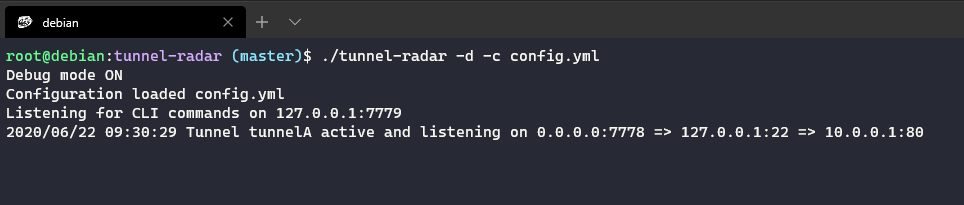
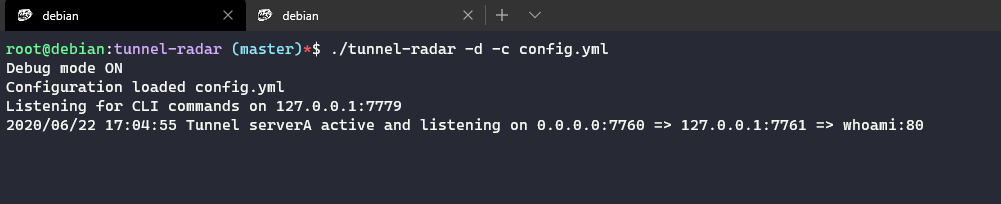
feat/docs: Adding documentation and features
* Adding CLI sample to documentation
* Changing logo
* Improving cli command handling
* Improving connection close on tunnel disable/enable

Changed region(s): [[0.0, 0.0, 0.9647, 0.6765], [0.4668, 0.0588, 0.5602, 0.0882]]

diff --git a/tunnel.go b/tunnel.go
@@ -22,12 +22,18 @@ type Tunnel struct {
 	Disabled     bool   `yaml:"disabled"`
 	Status       string
 	ClientConfig *ssh.ClientConfig
+	Listener     net.Listener
 }
 
 func (tunnel *Tunnel) Spawn() error {
 
+	if tunnel.Listener != nil {
+		tunnel.Listener.Close()
+	}
+
 	// Start accepting connections
 	listener, err := net.Listen("tcp", tunnel.Source)
+	tunnel.Listener = listener
 	if err != nil {
 		log.Printf("An error occurred while connecting to %s. Error: %s\r\n", tunnel.Alias, err)
 		return err
@@ -39,10 +45,9 @@ func (tunnel *Tunnel) Spawn() error {
 
 	log.Printf("Tunnel %s active and listening on %s => %s => %s\r\n", tunnel.Alias, tunnel.Source, tunnel.Remote, tunnel.Destination)
 	for tunnel.Disabled == false {
-
 		conn, err := listener.Accept()
 
-		if err != nil {
+		if err != nil && err != io.EOF {
 			log.Printf("An error occurred while accepting a connection on %s. Error: %s\r\n", tunnel.Alias, err)
 			return err
 		}

diff --git a/main.go b/main.go
@@ -11,8 +11,6 @@ func main() {
 	cli := flag.Bool("i", false, "Enter in CLI mode to execute commands on TunnelRadar")
 	cliHost := flag.String("ih", "127.0.0.1", "CLI host to connect to (default 127.0.0.1)")
 	cliPort := flag.Int("ip", 7779, "CLI Port to connect to (default 7779)")
-	cliServerHost := flag.String("ish", "127.0.0.1", "Host on which the CLI server will listen for commands (default 127.0.0.1)")
-	cliServerPort := flag.Int("isp", 7779, "Port on which the CLI server will listen for commands  (default 7779)")
 
 	configPath := flag.String("c", "/etc/tunnel-radar/config.yml", "Configuration file path")
 	debug := flag.Bool("d", false, "Enable debugging")
@@ -35,7 +33,7 @@ func main() {
 		}
 
 		// Start listening for commands
-		StartCliServer(*cliServerHost, *cliServerPort)
+		StartCliServer(tunnelRadarConfig.CliServerHost, tunnelRadarConfig.CliServerPort)
 
 	}
 }

diff --git a/config.go b/config.go
@@ -12,7 +12,9 @@ import (
 var tunnelRadarConfig TunnelRadarConfig
 
 type TunnelRadarConfig struct {
-	Tunnels map[string]*Tunnel `yaml:"tunnels"`
+	CliServerHost string             `yaml:"cliServerHost"`
+	CliServerPort int                `yaml:"cliServerPort"`
+	Tunnels       map[string]*Tunnel `yaml:"tunnels"`
 }
 
 // LoadConfig - Load the configuration from ./config.yml
@@ -33,9 +35,19 @@ func loadConfig(configPath string) {
 		os.Exit(1)
 	}
 
+	// Set the Host and Port for the CLI
+	if tunnelRadarConfig.CliServerHost == "" {
+		tunnelRadarConfig.CliServerHost = "127.0.0.1"
+	}
+
+	if tunnelRadarConfig.CliServerPort == 0 {
+		tunnelRadarConfig.CliServerPort = 7779
+	}
+
 	// Configure clients
 	for alias, tunnel := range tunnelRadarConfig.Tunnels {
 
+		// Set the Alias
 		tunnel.Alias = alias
 
 		// Set the Authentication method

diff --git a/cli.go b/cli.go
@@ -114,7 +114,7 @@ func getCommand(conn net.Conn) {
 				conn.Write([]byte(fmt.Sprintf("Missing alias of tunnel (i.e. enable tunnel1)%s", TUNNEL_RADAR_EOF)))
 			}
 			alias := cmd[1]
-			tunnelRadarConfig.Tunnels[alias].Enable()
+			(*tunnelRadarConfig.Tunnels[alias]).Enable()
 			conn.Write([]byte(alias + " has been enabled." + "\n" + TUNNEL_RADAR_EOF))
 
 		case "disable":
@@ -122,7 +122,7 @@ func getCommand(conn net.Conn) {
 				conn.Write([]byte(fmt.Sprintf("Missing alias of tunnel (i.e. disable tunnel1)%s", TUNNEL_RADAR_EOF)))
 			}
 			alias := cmd[1]
-			tunnelRadarConfig.Tunnels[alias].Disable()
+			(*tunnelRadarConfig.Tunnels[alias]).Disable()
 			conn.Write([]byte(alias + " has been disabled." + "\n" + TUNNEL_RADAR_EOF))
 
 		default:

diff --git a/README.md b/README.md
@@ -40,16 +40,19 @@ You should see a `tunnel-radar` binary inside the folder
 
 ```yaml
 tunnels:
-  tunnelA:
-    disabled: false
-    source: "0.0.0.0:7778"
-    remote: "127.0.0.1:22"
-    destination: "10.0.0.1:80"
+  serverA:
+    cliServerHost: "127.0.0.1"
+    cliServerPort: 7779
+    disabled: false # if true, this tunnel will have to be manually enabled
+    source: "0.0.0.0:6000"
+    remote: "127.0.0.1:6001"
+    destination: "whoami:80"
     auth:
       user: "root"
+      password: "root"
       # Either password or key are required
-      password: "password"
-      key: "/root/.ssh/id_rsa"
+      # key: "/root/.ssh/id_rsa"
+
 
 ```
 ## Usage 🏹
@@ -79,9 +82,23 @@ If so the service is ready to accept connections on the different enabled tunnel
 
 ## CLI Usage 💻
 
-TBD.
+In order to run the `cli` to manage the tunnels you can use the same binary with the flags specified above:
 
-## TODO :wrench:
+```bash
+$ ./tunnel-radar -d -i -ih 127.0.0.1 -ip 7779
+```
+
+The prompt of the CLI will show up and then you can start communicating with the service like:
+
+<div style="text-align:center"><img src="./doc/images/usage_2.png"></div>
+
+As of right now these are the available commands:
+
+* **list/ls**: Display the list of declared tunnels
+* **enable [alias]**: Enables a tunnel
+* **disable [alias]**: Disables a tunnel
+
+## TODO 🔨
 * Add more configuration options
 * Add retry in case tunnel goes down
 * Add Makefile
@@ -95,6 +112,6 @@ TBD.
 * Run benchmarks
 * Ansible deployment
 
-## Contribution :construction_worker:
+## Contribution 👨🏭
 
 TBD.
